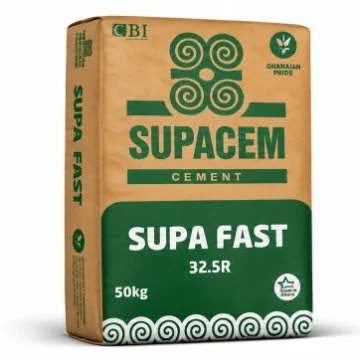
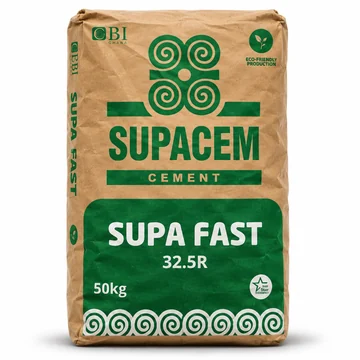
New photoreal cement bag photos (Sunburst) (#8)
* Temporary captures of the four Sunburst cement bag renders (to be processed and removed)

* Replace the four cement bag photos with Sunburst renders

New photoreal bag images made with OpenAI's Sunburst model, using each
manufacturer's official product photo as the design reference:
Supacem Supa Fast 32.5R, Supacem Supa Power 42.5R, Dzata 42.5R and
Ghacem Super Strong Waterproof 42.5N.

- images/products/*.webp: same file names and size (360 x 360), so no
  code changes are needed
- design/product-originals/*.png: the 1024 x 1024 masters (kept for the
  hero image work)
- README updated with the references used and the known small-print
  differences
- removes the temporary capture files used to bring the images across

Claude-Session: https://claude.ai/code/session_01FicDKZBCwLEgTVCUTh3Qed

* Use the exact Sunburst originals as masters and thumbnail source

Daniel downloaded the four original PNGs from the OpenAI playground. They
replace the screen-capture copies in design/product-originals/, and the
360 x 360 website images are remade from them.

Claude-Session: https://claude.ai/code/session_01FicDKZBCwLEgTVCUTh3Qed

---------

diff --git a/design/product-originals/README.md b/design/product-originals/README.md
@@ -1,7 +1,11 @@
 # Product images: full-size originals
 
-These are the master copies of the product pictures, exactly as they were
-generated in ChatGPT (PNG, about 2172 × 724 pixels, 1.3 to 1.7 MB each).
+These are the master copies of the product pictures. The four cement bags were
+regenerated on 12 November 2026 with OpenAI's Sunburst image model
+(gpt-image-2.6-sunburst), using each manufacturer's official product photo as
+the design reference. They are PNG, 1024 × 1024 pixels, 1.2 to 1.4 MB each,
+exactly as downloaded from the OpenAI playground (bag on a white background). Binding wire and iron rods are still the ChatGPT originals
+(PNG, about 2172 × 724 pixels).
 They are kept here so a better crop or a new size can always be made from the
 best available version. This folder is **not published** on the website
 (see `_config.yml`).
@@ -16,6 +20,24 @@ The website uses the small optimised copies in `images/products/` instead:
 | `ghacem-waterproof-42-5.png` | `images/products/ghacem-waterproof-42-5.webp` | square crop of the bag, 360 × 360, WebP |
 | `binding-wire.png` | `images/products/binding-wire.webp` | square crop of the coil, 360 × 360, WebP |
 | `iron-rods.png` | `images/products/iron-rods-720.webp`, `-1086.webp`, `-1440.webp` | whole image at three widths (720, 1086, 1440 px), WebP quality 82; one shared photo for both rod tabs, labelled only "8 mm to 16 mm \| 30 ft length" |
+
+## The Sunburst cement bags
+
+| Bag | Design reference used |
+| --- | --- |
+| Supacem Supa Fast 32.5R | CBI Ghana product photo (cbighana.com) |
+| Supacem Supa Power 42.5R | CBI Ghana product photo (cbighana.com) |
+| Dzata 42.5R | Dzata Cement product photo (dzatacement.com) |
+| Ghacem Super Strong Waterproof 42.5N | Ghacem product image (ghacem.com) |
+
+All four were generated at Medium quality, one attempt each. All the main
+packaging text is correct. Known small differences from the real bags, too
+small to read at the size the website shows them:
+
+- Supa Fast: the small leaf badge reads "ECO-FRIENDLY PRODUCTION" (the real bag says "INNOVATION").
+- Supa Power: the vertical "SUPA POWER" text sits on the front edge rather than on the side panel.
+- Ghacem: the tiny vertical text on the blue side strip garbles "CEMENT".
+- Dzata: the lion is drawn slightly differently from Dzata's official artwork.
 
 ## Important
 
